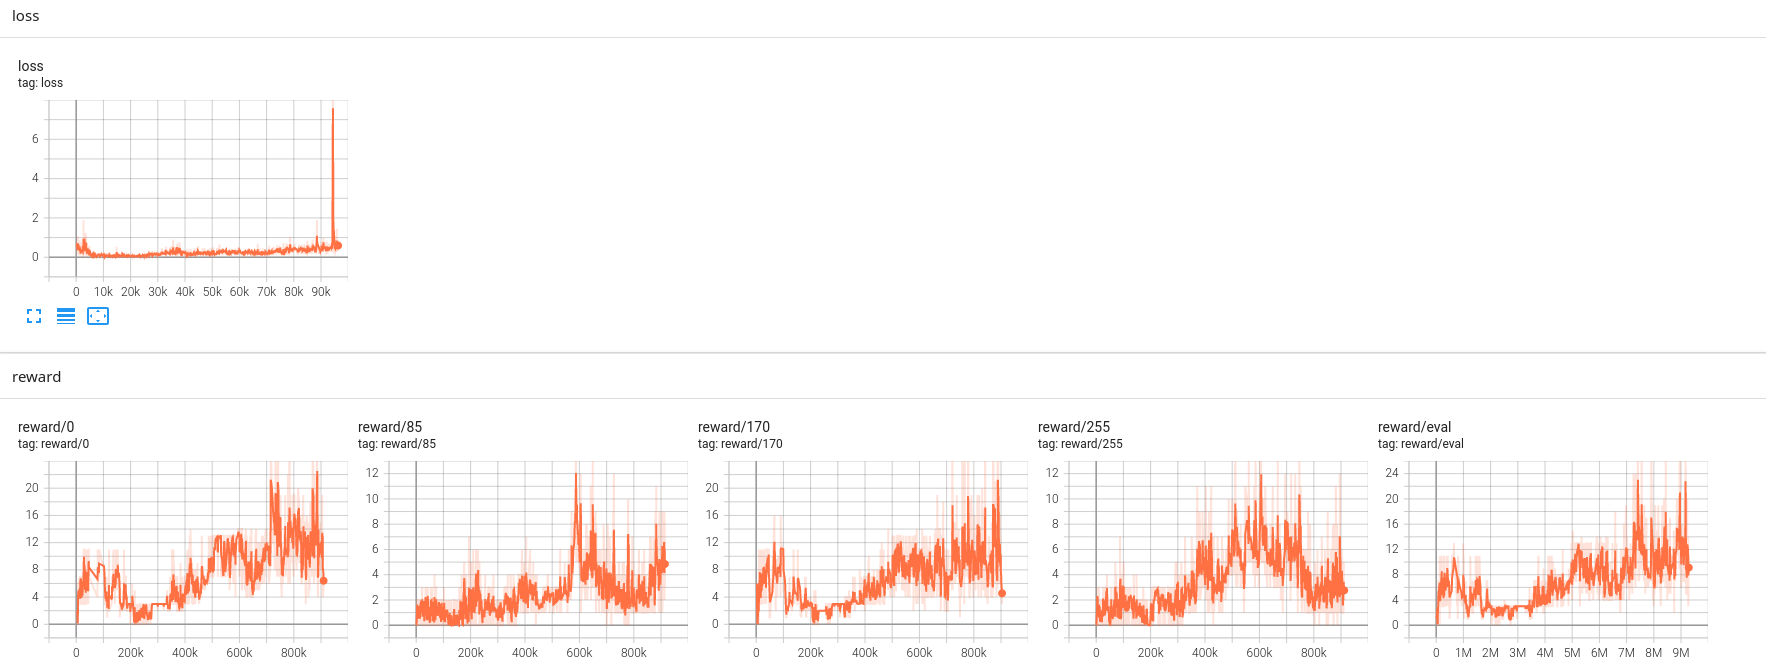
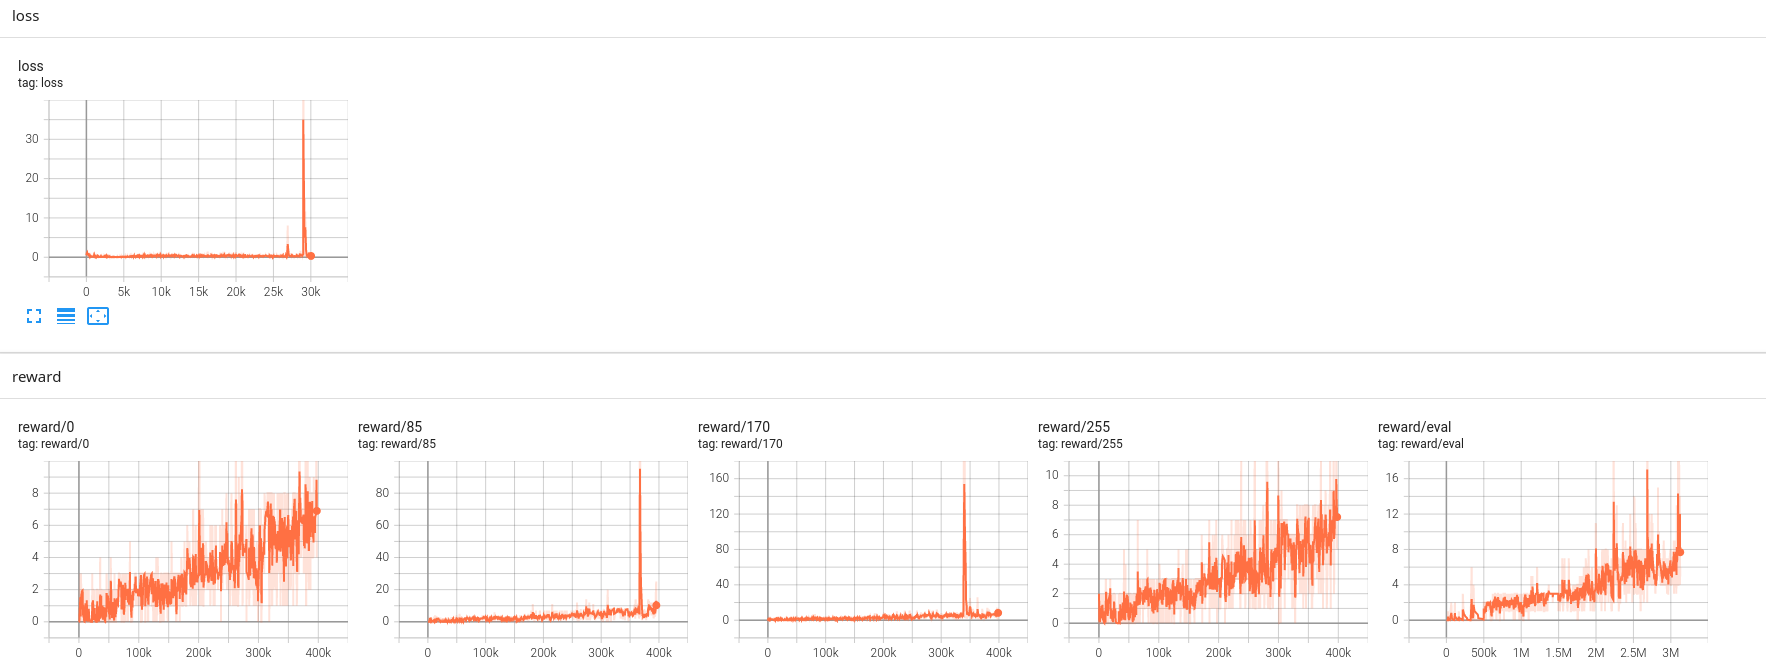
損失算出の不具合を修正

Changed region(s): [[0.0311, 0.6917, 0.9655, 0.9925], [0.0311, 0.1805, 0.218, 0.391], [0.0311, 0.4211, 0.1869, 0.4511]]

diff --git a/learner.py b/learner.py
@@ -11,7 +11,7 @@ from shared_data import SharedActorData
 from torch.utils.tensorboard import SummaryWriter
 import zstandard as zstd
 
-from utils import get_agent_input_burn_in_from_transition, get_beta_table, get_gamma_table, get_input_for_compute_loss, retrace_loss
+from utils import get_agent_input_burn_in_from_transition, get_beta_table, get_gamma_table, get_loss_input_for_replay, get_loss_input_for_train, retrace_loss
 
 
 def eval_loop(shared_infer_net, predict_net, embedding_net, config: Config,
@@ -22,7 +22,7 @@ def eval_loop(shared_infer_net, predict_net, embedding_net, config: Config,
   RND_net = RNDNetwork(device, config, predict_net)
   ids = [0]
   beta_table = get_beta_table(config)
-  rng = np.random.default_rng()  # or random.default_rng(0)
+  rng = np.random.default_rng()
 
   infer_net = Agent57Network(device, config)
   infer_net.set_weight(*shared_infer_net.get_weight())
@@ -30,7 +30,7 @@ def eval_loop(shared_infer_net, predict_net, embedding_net, config: Config,
   reward_generator = RewardGenerator(batch_size, config, RND_net, embedding_net, device)
 
   e_prev_lstm_states, i_prev_lstm_states = infer_net.initial_state(batch_size)
-  prev_actions = np.zeros((batch_size, 1), dtype=np.uint8)
+  prev_actions = rng.integers(config.action_space, size=len(ids))
 
   _, actor_output = shared_actor_data.get_actor_data()
   agent_input_data = AgentInputData(
@@ -102,8 +102,10 @@ def inference_loop(actor_indexes, shared_infer_net, predict_net, embedding_net, 
     actor_indexes[-1] * config.num_env_batches + config.num_env_batches
   )
   first_env_id = env_ids[0]
+  ids = env_ids - first_env_id
 
   batch_size = len(env_ids)
+  rng = np.random.default_rng()
 
   infer_net = Agent57Network(device, config)
   infer_net.set_weight(*shared_infer_net.get_weight())
@@ -120,7 +122,7 @@ def inference_loop(actor_indexes, shared_infer_net, predict_net, embedding_net, 
   batched_layer = BatchedLayer(env_ids, shared_actor_datas, config)
 
   e_prev_lstm_states, i_prev_lstm_states = infer_net.initial_state(batch_size)
-  prev_actions = np.zeros(batch_size, dtype=np.uint8)
+  prev_actions = rng.integers(config.action_space, size=len(ids))
   prev_meta_indexes = np.zeros(batch_size, dtype=int)
 
   batched_actor_output = batched_layer.wait_actor_outputs(first_env_id)
@@ -180,7 +182,7 @@ def inference_loop(actor_indexes, shared_infer_net, predict_net, embedding_net, 
       transitions, qvalues = ret
       qvalues = torch.from_numpy(qvalues[:, config.replay_period:]).to(torch.float32).to(device)
 
-      input = get_input_for_compute_loss(transitions, config, device, beta_table, gamma_table)
+      input = get_loss_input_for_replay(transitions, config, device, beta_table, gamma_table)
 
       losses = retrace_loss(
         input=input,
@@ -220,10 +222,10 @@ def train_loop(rank, infer_net, predict_net, embedding_net, sample_queue, priori
   e_weight, i_weight = infer_net.get_weight()
 
   e_agent = R2D2Agent(device, config)
-  e_agent.set_weight(e_weight, e_weight)
+  e_agent.set_weight(e_weight)
 
   i_agent = R2D2Agent(device, config)
-  i_agent.set_weight(i_weight, i_weight)
+  i_agent.set_weight(i_weight)
 
   RND_net = RNDNetwork(device, config, predict_net)
   action_prediction_net = ActionPredictionNetwork(device, config, embedding_net)
@@ -242,7 +244,7 @@ def train_loop(rank, infer_net, predict_net, embedding_net, sample_queue, priori
     e_online_qvalue, e_target_qvalue = e_agent.get_qvalues(e_input, transitions)
     i_online_qvalue, i_target_qvalue = i_agent.get_qvalues(i_input, transitions)
 
-    loss_input = get_input_for_compute_loss(transitions, config, device, beta_table, gamma_table)
+    loss_input = get_loss_input_for_replay(transitions, config, device, beta_table, gamma_table)
 
     # リプレイのための統一損失
     beta = loss_input.beta.unsqueeze(-1)
@@ -255,8 +257,9 @@ def train_loop(rank, infer_net, predict_net, embedding_net, sample_queue, priori
     loss = (torch.FloatTensor(is_weights).to(device) * losses).mean(0)
 
     # 訓練のための個別損失
-    e_losses = retrace_loss(loss_input, e_online_qvalue, e_target_qvalue, target_qvalue, config, device)
-    i_losses = retrace_loss(loss_input, i_online_qvalue, i_target_qvalue, target_qvalue, config, device)
+    e_loss_input, i_loss_input = get_loss_input_for_train(transitions, config, device, beta_table, gamma_table)
+    e_losses = retrace_loss(e_loss_input, e_online_qvalue, e_target_qvalue, target_qvalue, config, device)
+    i_losses = retrace_loss(i_loss_input, i_online_qvalue, i_target_qvalue, target_qvalue, config, device)
 
     # seq sum -> batch mean
     e_loss = (torch.FloatTensor(is_weights).to(device) * e_losses).mean(0)

diff --git a/utils.py b/utils.py
@@ -88,7 +88,7 @@ def get_agent_input_from_transition(transition, lstm_state, device, config):
   )
 
 
-def get_input_for_compute_loss(transitions, config: Config, device, beta_table, gamma_table) -> ComputeLossInput:
+def get_loss_input_for_replay(transitions, config: Config, device, beta_table, gamma_table) -> ComputeLossInput:
   beta = beta_table[transitions["meta_index"]][:, np.newaxis]
   gamma = gamma_table[transitions["meta_index"]]
   rewards = transitions["e_reward"][:, config.replay_period:] + beta * transitions["i_reward"][:, config.replay_period:]
@@ -99,6 +99,30 @@ def get_input_for_compute_loss(transitions, config: Config, device, beta_table, 
   return ComputeLossInput(
       action=torch.from_numpy(transitions["action"][:, config.replay_period:].copy()).to(torch.int64).unsqueeze(-1).to(device),
       reward=torch.from_numpy(rewards.copy()).to(torch.float32).to(device),
+      done=torch.from_numpy(transitions["done"][:, config.replay_period:].copy()).to(torch.bool).to(device),
+      policy=torch.from_numpy(transitions["policy"][:, config.replay_period:].copy()).unsqueeze(-1).to(torch.float32).to(device),
+      beta=target_epsilon,
+      gamma=torch.from_numpy(gamma[:, np.newaxis].copy()).to(torch.float32).to(device),
+  )
+
+
+def get_loss_input_for_train(transitions, config: Config, device, beta_table, gamma_table) -> ComputeLossInput:
+  beta = beta_table[transitions["meta_index"]][:, np.newaxis]
+  gamma = gamma_table[transitions["meta_index"]]
+
+  target_epsilon = torch.empty(transitions["action"][:, config.replay_period:].shape, dtype=torch.float32, device=device)
+  target_epsilon[:] = torch.from_numpy(beta.copy())
+
+  return ComputeLossInput(
+      action=torch.from_numpy(transitions["action"][:, config.replay_period:].copy()).to(torch.int64).unsqueeze(-1).to(device),
+      reward=torch.from_numpy(transitions["e_reward"][:, config.replay_period:].copy()).to(torch.float32).to(device),
+      done=torch.from_numpy(transitions["done"][:, config.replay_period:].copy()).to(torch.bool).to(device),
+      policy=torch.from_numpy(transitions["policy"][:, config.replay_period:].copy()).unsqueeze(-1).to(torch.float32).to(device),
+      beta=target_epsilon,
+      gamma=torch.from_numpy(gamma[:, np.newaxis].copy()).to(torch.float32).to(device),
+  ), ComputeLossInput(
+      action=torch.from_numpy(transitions["action"][:, config.replay_period:].copy()).to(torch.int64).unsqueeze(-1).to(device),
+      reward=torch.from_numpy(transitions["i_reward"][:, config.replay_period:].copy()).to(torch.float32).to(device),
       done=torch.from_numpy(transitions["done"][:, config.replay_period:].copy()).to(torch.bool).to(device),
       policy=torch.from_numpy(transitions["policy"][:, config.replay_period:].copy()).unsqueeze(-1).to(torch.float32).to(device),
       beta=target_epsilon,
@@ -162,18 +186,6 @@ def get_epsilon_greedy_policy(qvalues, n_actions, epsilon, device):
   return greedy_action, greedy_policy, epsilon_greedy_policy
 
 
-def get_greedy_policy(qvalues, n_actions, epsilon, device):
-  greedy_action = torch.argmax(qvalues, 2, keepdim=True)
-
-  greedy_probability = 1 - epsilon * ((n_actions - 1) / n_actions)
-
-  greedy_policy = torch.zeros(qvalues.shape).to(device)
-
-  greedy_policy.scatter_(2, greedy_action, greedy_probability)
-
-  return greedy_policy
-
-
 def select_actions(qvalues, n_actions, epsilons, device, batch_size):
   tensor_epsilons = torch.empty((batch_size, 1, 1), dtype=torch.float32, device=device)
   tensor_epsilons[:] = torch.tensor(epsilons).reshape(-1, 1, 1)
@@ -219,7 +231,7 @@ def retrace_loss(input: ComputeLossInput, behaviour_qvalues, target_qvalues, tar
   target_epsilon = torch.empty((behaviour_qvalues.shape[0], behaviour_qvalues.shape[1], 1), dtype=torch.float32, device=device)
   target_epsilon[:] = config.target_epsilon
 
-  target_policies = get_greedy_policy(target_policy_qvalue, config.action_space, target_epsilon, device)
+  _, _, target_policies = get_epsilon_greedy_policy(target_policy_qvalue, config.action_space, target_epsilon, device)
 
   behaviour_q = behaviour_qvalues.gather(2, input.action).squeeze(-1)
 

diff --git a/agent.py b/agent.py
@@ -21,9 +21,9 @@ class R2D2Agent:
       betas=(config.adam_beta1, config.adam_beta2),
       eps=config.adam_epsilon)
 
-  def set_weight(self, e_weight, i_weight):
-    self.online_net.set_weight(e_weight)
-    self.target_net.set_weight(i_weight)
+  def set_weight(self, weight):
+    self.online_net.set_weight(weight)
+    self.target_net.set_weight(weight)
 
   def get_weight(self):
     return self.e_net.get_weight(), self.i_net.get_weight()

diff --git a/README.md b/README.md
@@ -2,7 +2,7 @@
 
 ## 紹介
 
-SEED RLでAgent57をPytorchで実装しています。
+SEED RL + Agent57をPytorchで実装しています。
 
 ### 参照論文
 
@@ -20,3 +20,25 @@ pip install -r requirements.txt
 ```
 python main.py
 ```
+
+## 結果
+
+### 実行環境
+
+Python 3.10 / Ryzen 5950x / RTX A4000
+
+#### 設定
+
+* Atari Game："Breakout"
+* アクター数：16
+* 1アクターあたり環境数：16
+* 訓練環境数：256
+* 推論プロセス数：4
+
+### ステップ数
+
+ ![image](images/breakout_step.png)
+
+### 実行時間
+
+ ![image](images/breakout_time.png)
